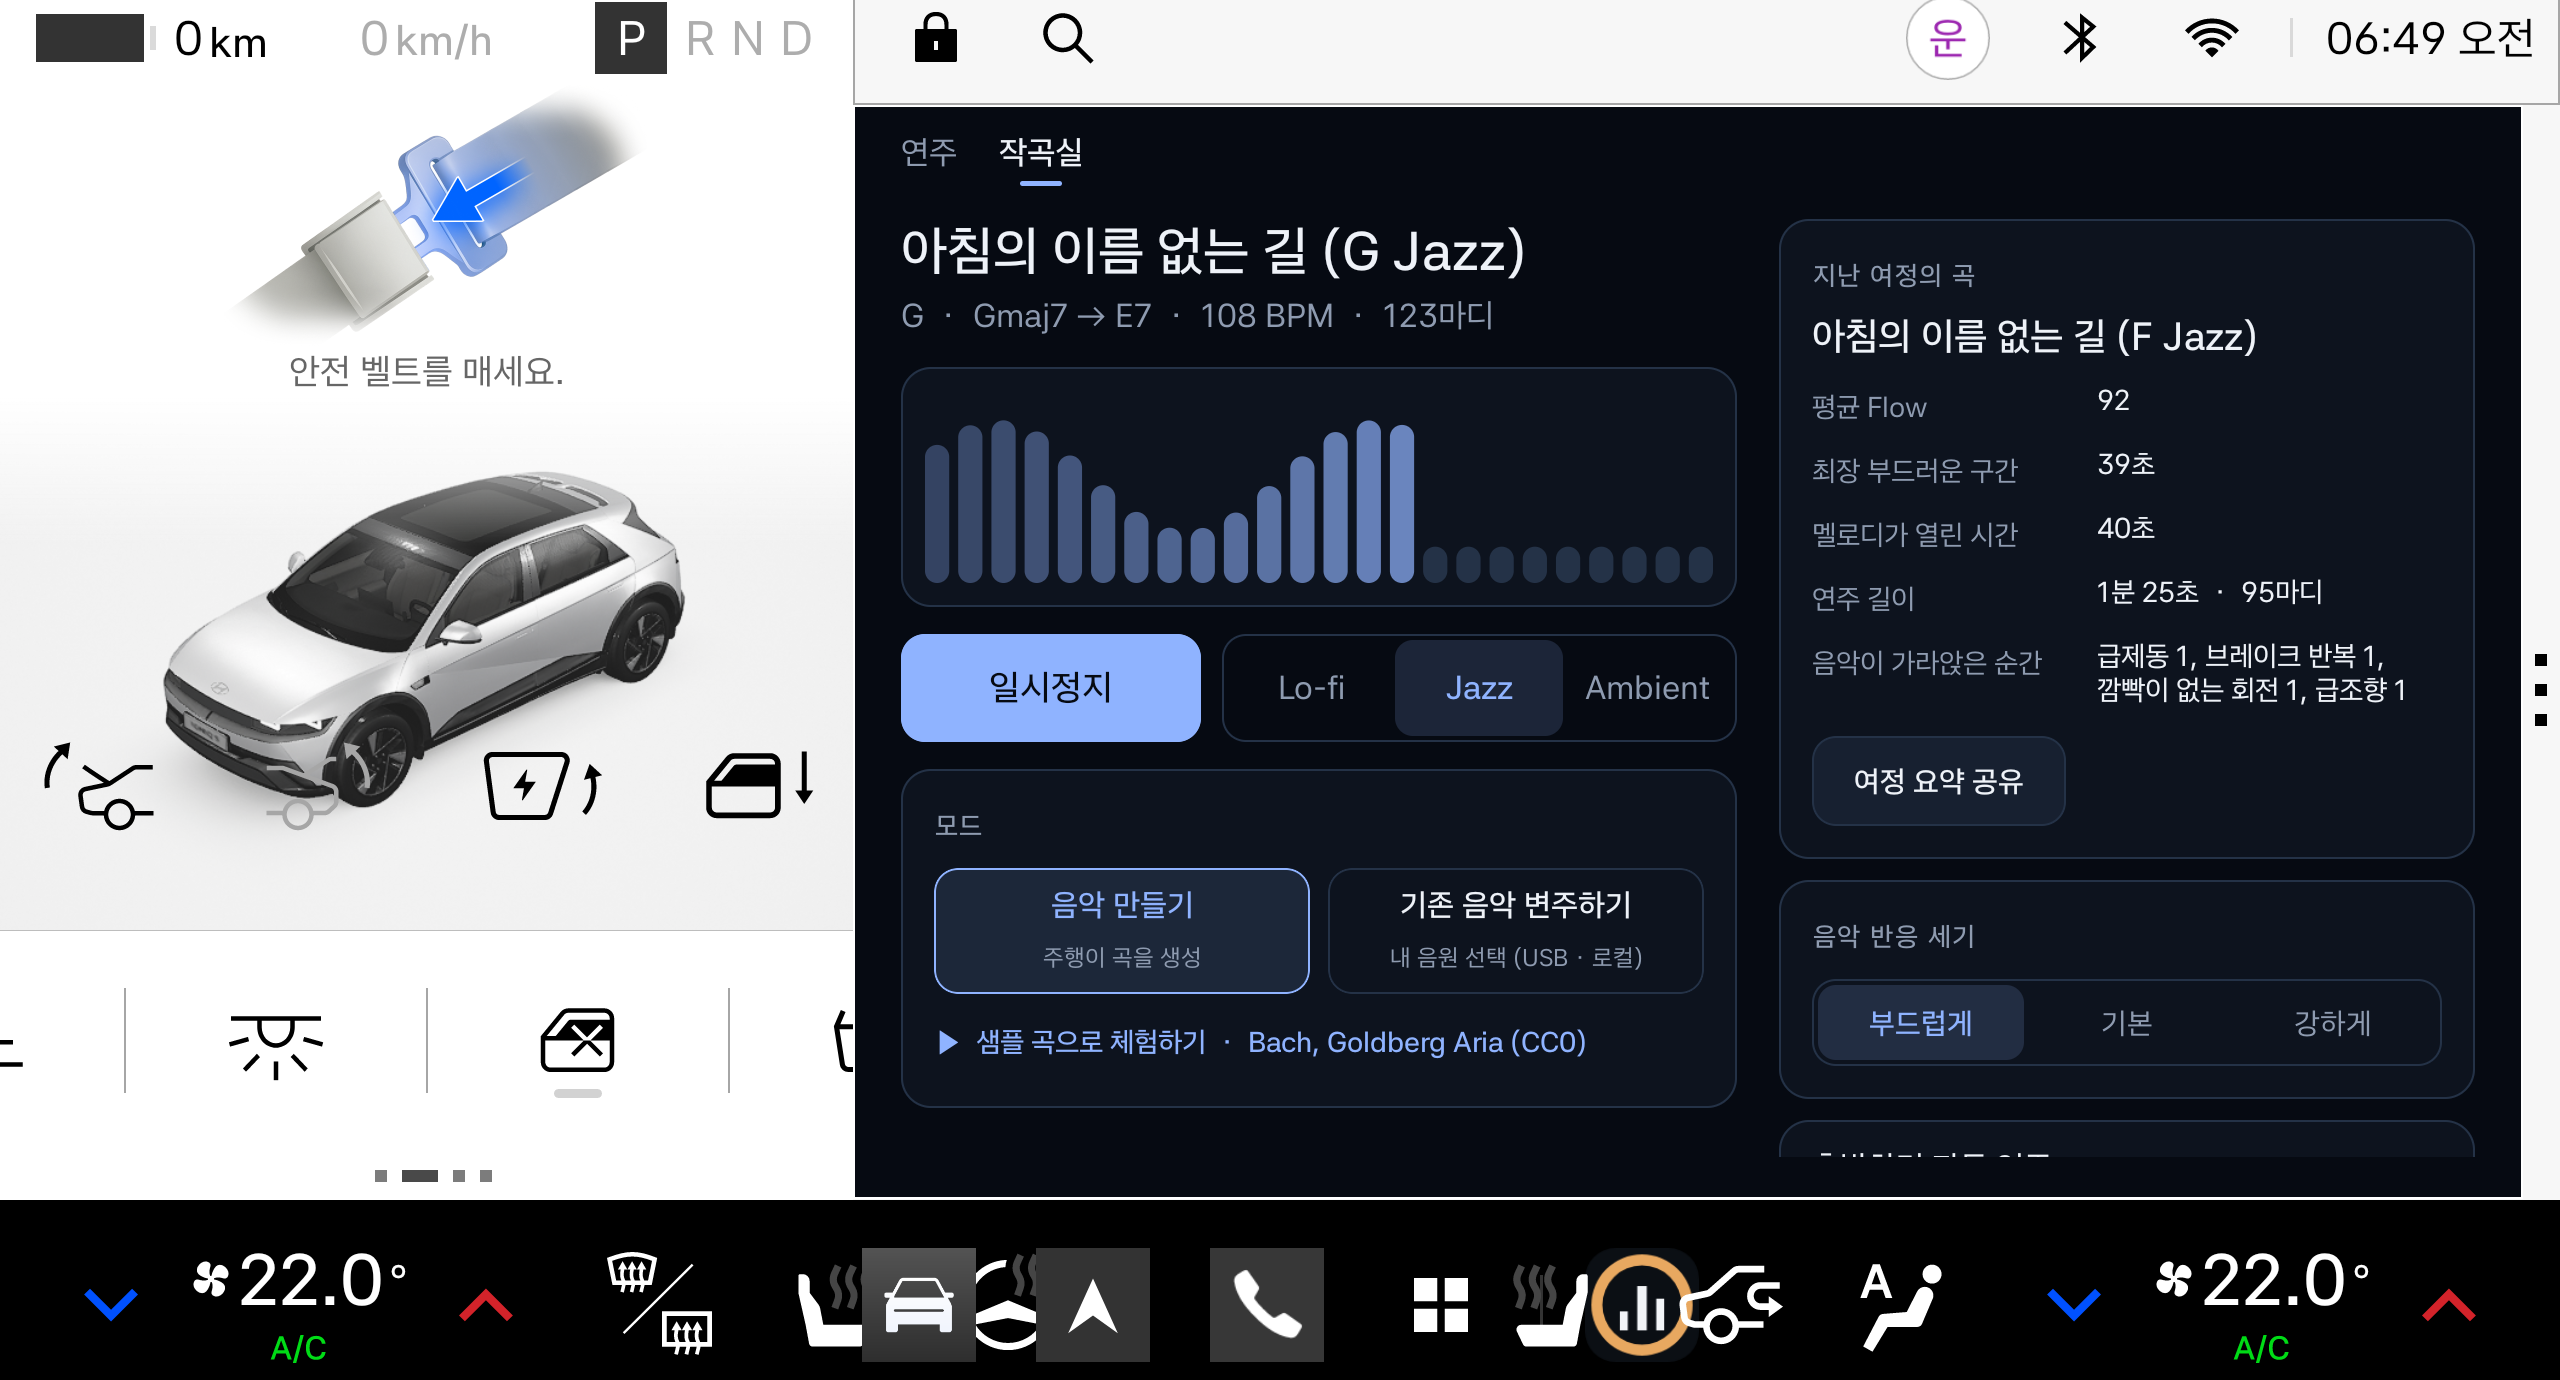
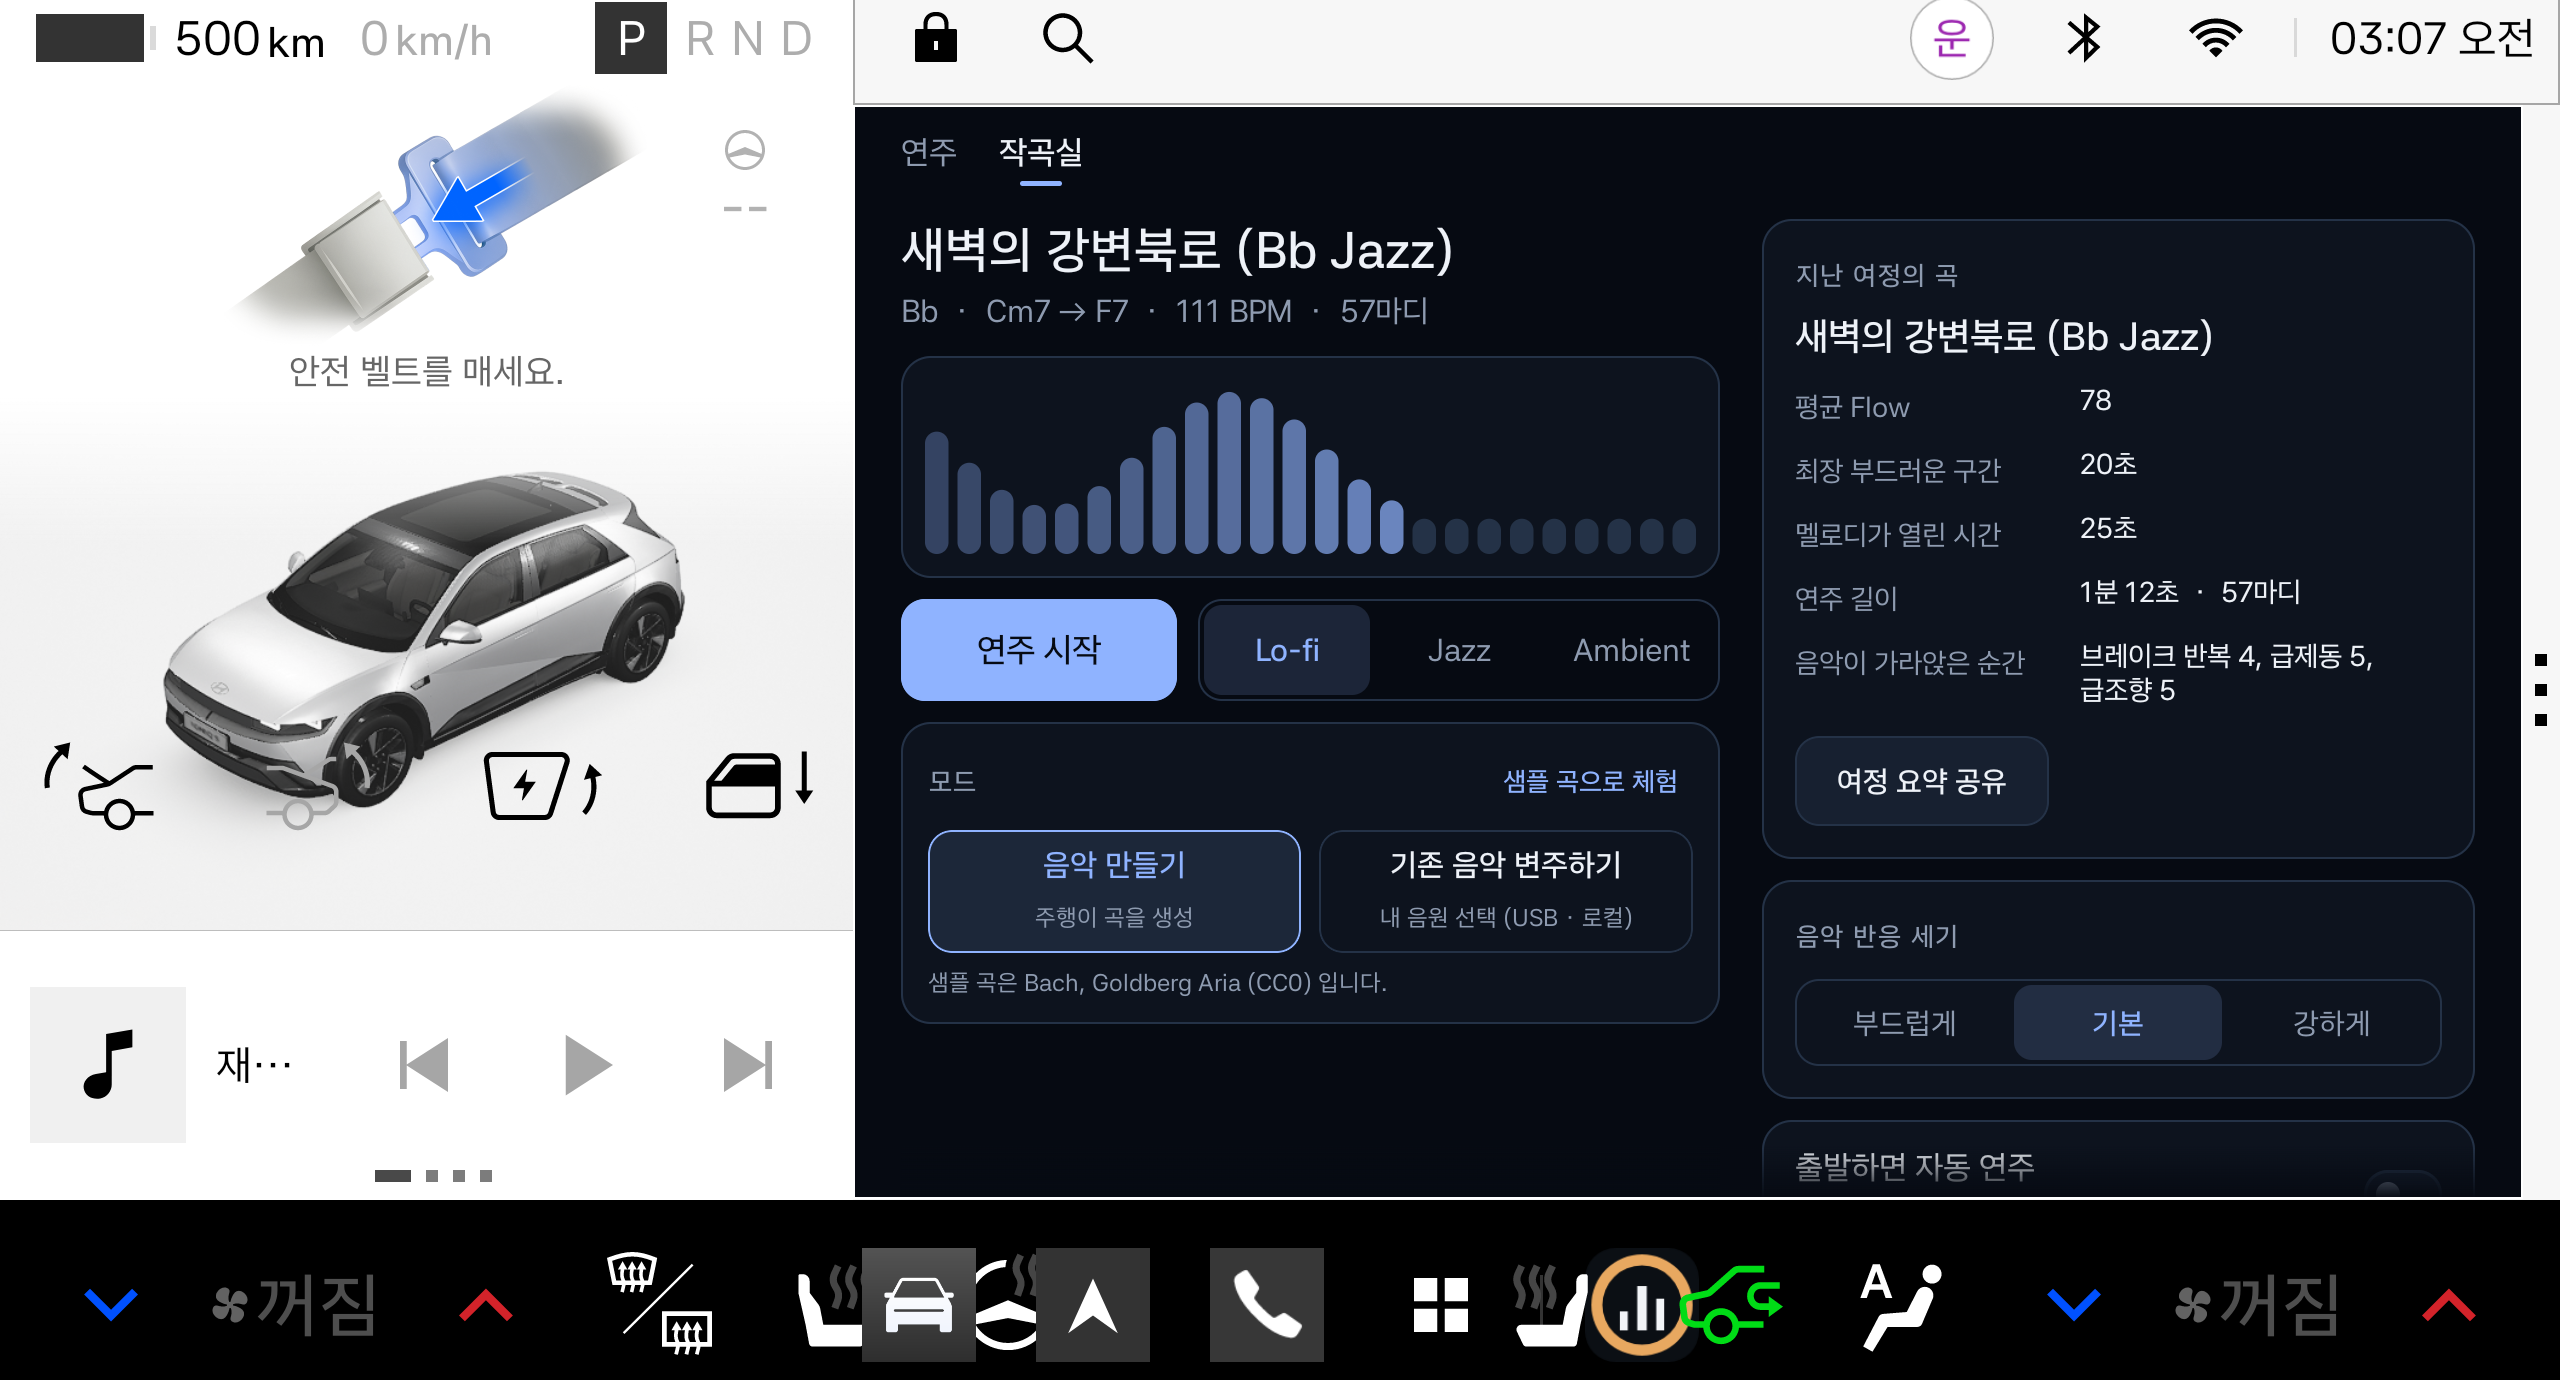
Capture scripts reset to generative mode; composer store screenshot; test count 64
A remix track left selected by an earlier session played through the demo
story of a capture. Both capture scripts now clear it first.

diff --git a/README.md b/README.md
@@ -38,7 +38,7 @@ drive-symphony/
 요구: JDK 17, Android Studio(Android SDK 35, Pleos Connect 에뮬레이터 v2.1.0). Android SDK가 없으면 `:app`은 자동으로 제외되고 엔진만 빌드된다.
 
 ```bash
-# 엔진 단위 테스트 (57개) + 프리뷰 WAV 11개(장르×주행 9 + A/B 2) 렌더링 → previews/ (+ python -I scripts/analyze_previews.py 로 음량·폭·대역 수치 확인)
+# 엔진 단위 테스트 (64개) + 프리뷰 WAV 11개(장르×주행 9 + A/B 2) 렌더링 → previews/ (+ python -I scripts/analyze_previews.py 로 음량·폭·대역 수치 확인)
 ./gradlew :engine:test :engine:renderPreviews
 # 제출 전 정합성 점검: Gleo 스키마 = 매니페스트 액션 = 서비스 상수, 패키지명, 장르 enum, 권한 집합, README 테스트 수
 python -I scripts/check_consistency.py
